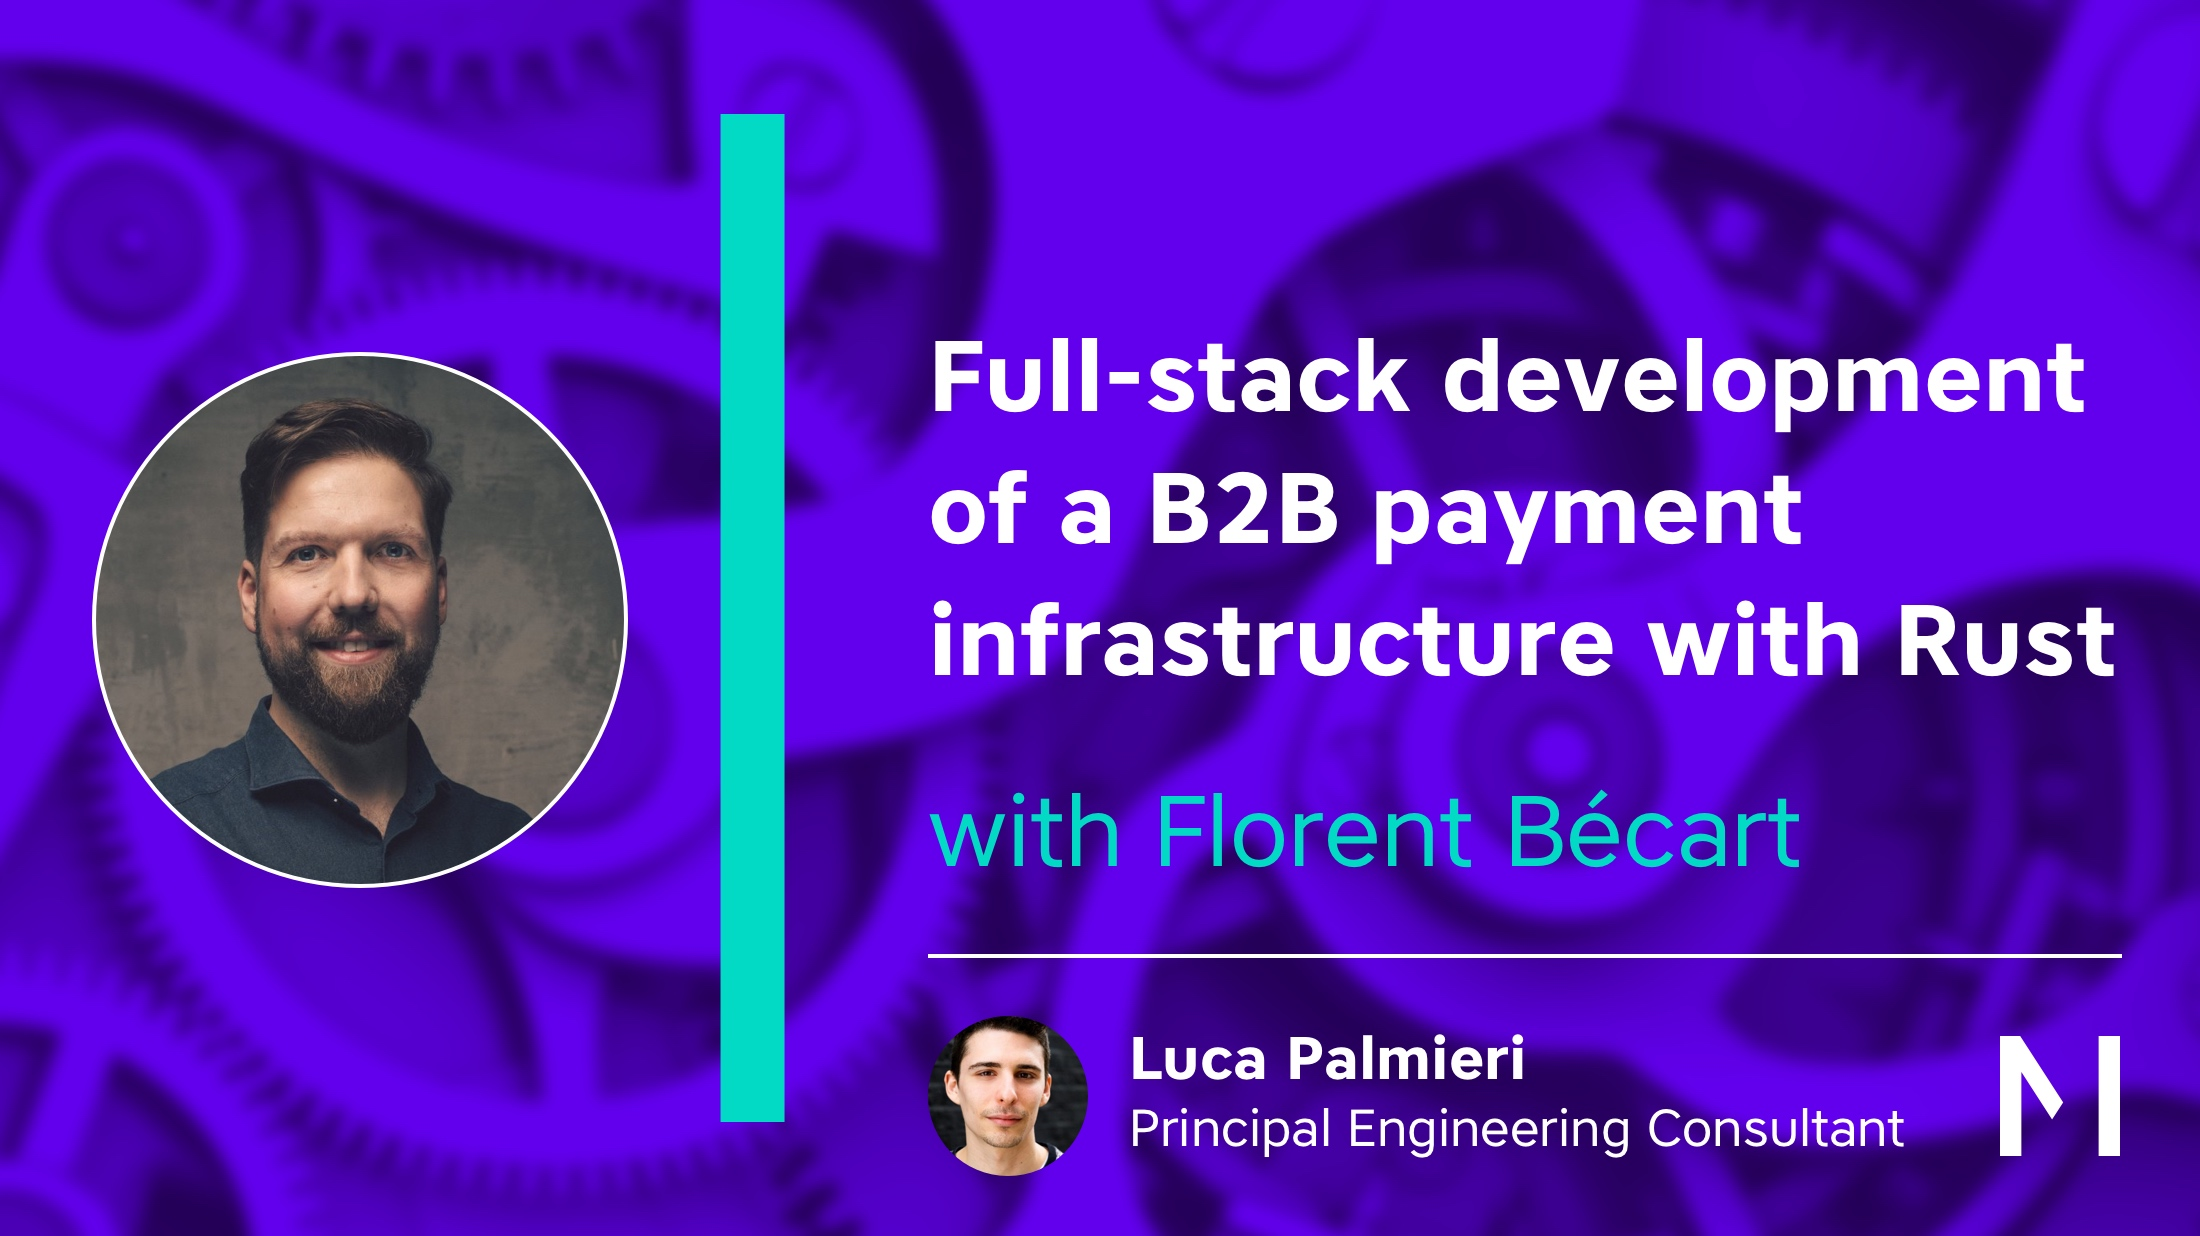
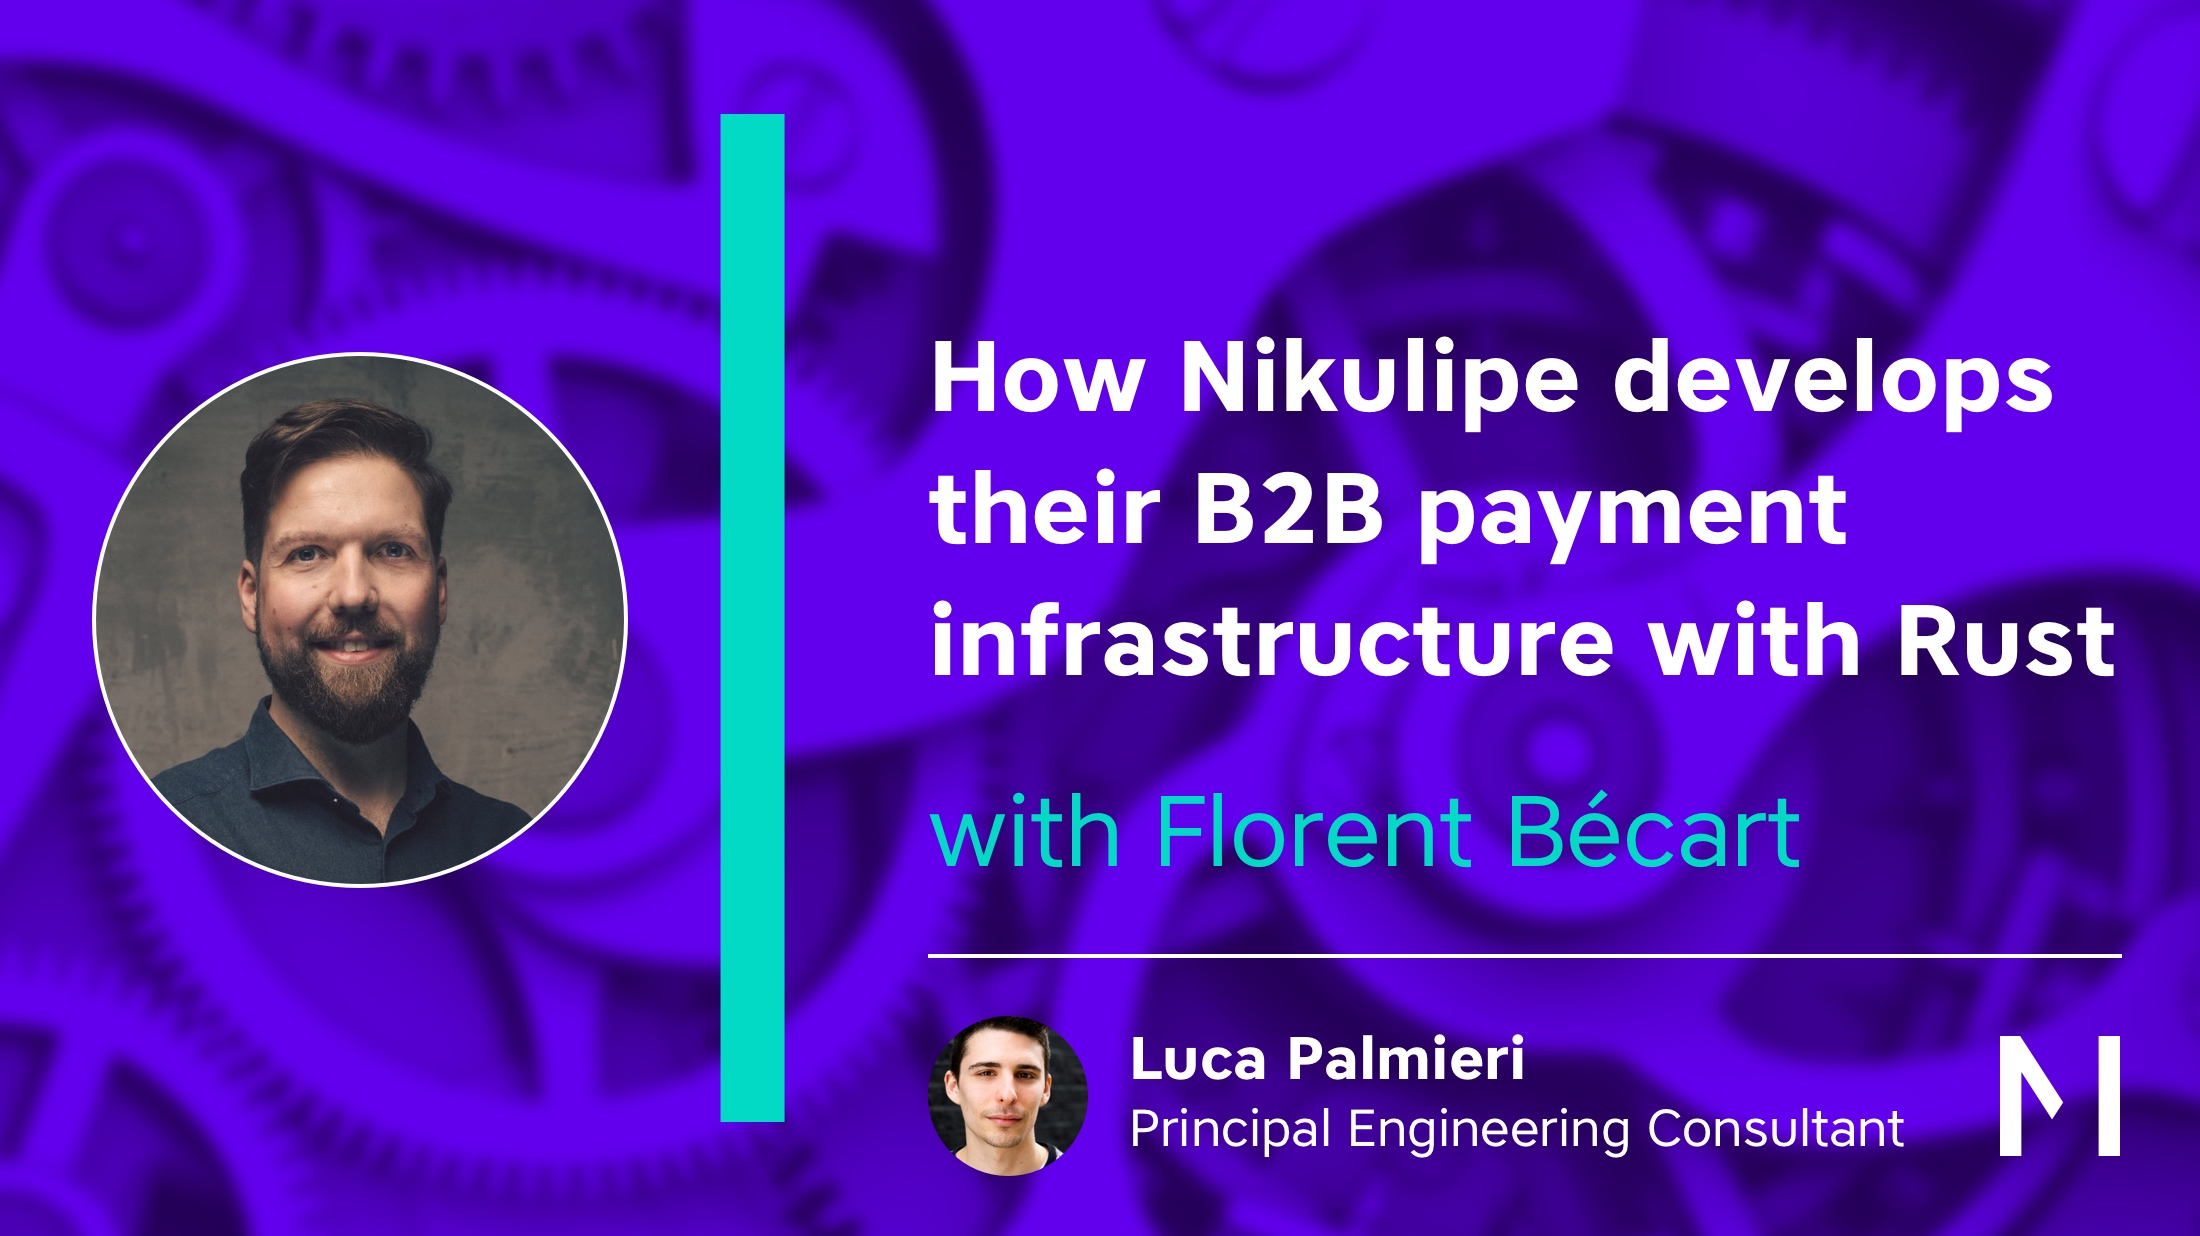
Update title and og

Changed region(s): [[0.4327, 0.2767, 0.9582, 0.3689], [0.4018, 0.3689, 0.8345, 0.4612]]

diff --git a/src/posts/2024-06-03-payment-infrastructure-with-rust.md b/src/posts/2024-06-03-payment-infrastructure-with-rust.md
@@ -1,5 +1,7 @@
 ---
-title: "How Nikulipe develops their B2B payment infrastructure with Rust – with Florent Bécart"
+title:
+  "How Nikulipe develops their B2B payment infrastructure with Rust – with
+  Florent Bécart"
 authorHandle: algo_luca
 tags: [rust]
 bio: "Principal Engineering Consultant"
